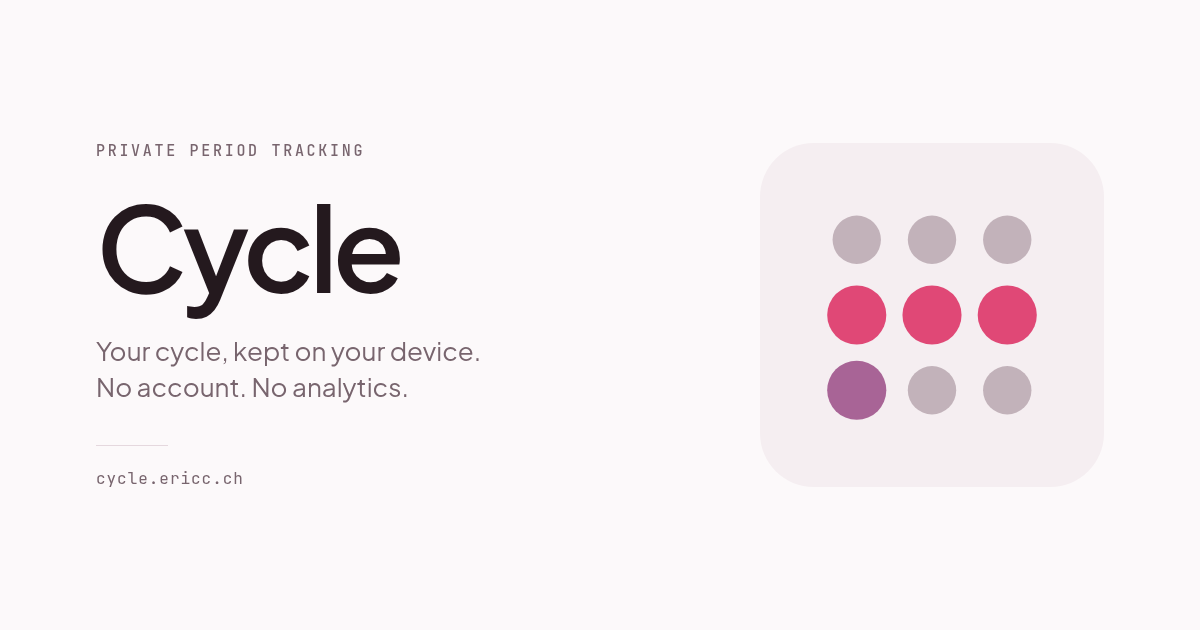
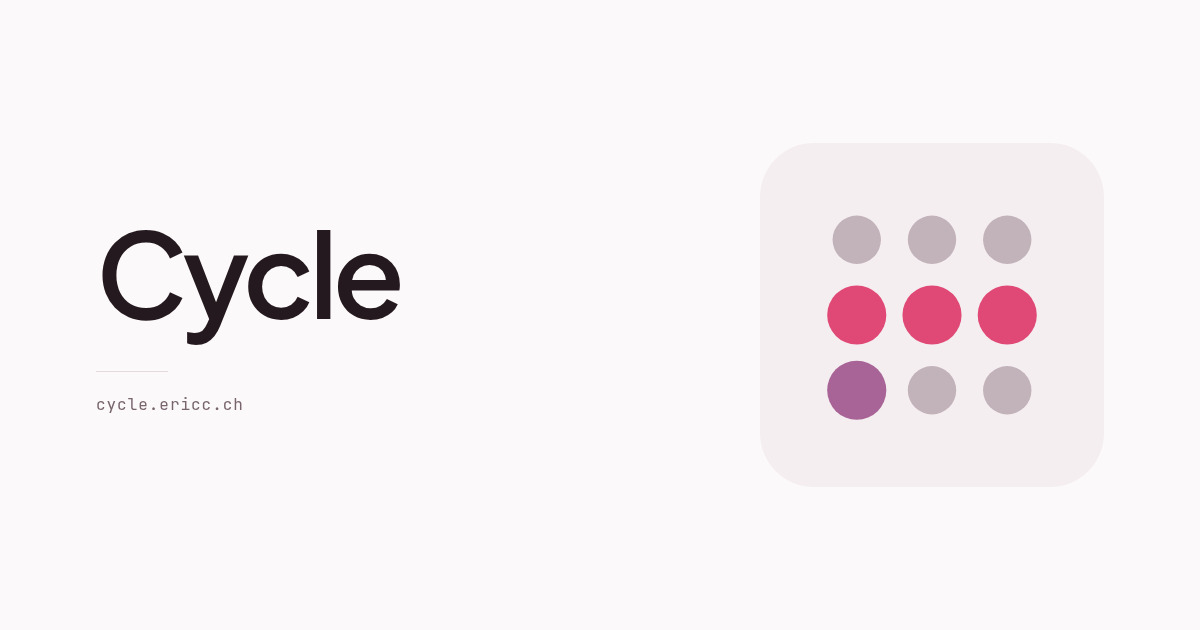
Strip the copy from the share card
The card is the wordmark and the mark, nothing else. The description
meta and the manifest description go with it, so a link preview shows
only the name and the domain.

diff --git a/apps/web/index.html b/apps/web/index.html
@@ -17,28 +17,17 @@
       media="(prefers-color-scheme: dark)"
       content="#141213"
     />
-    <meta
-      name="description"
-      content="Private, local-first period tracker with optional end-to-end encrypted sync."
-    />
     <meta name="apple-mobile-web-app-capable" content="yes" />
     <meta name="apple-mobile-web-app-status-bar-style" content="default" />
     <meta name="apple-mobile-web-app-title" content="Cycle" />
     <meta property="og:title" content="Cycle" />
-    <meta
-      property="og:description"
-      content="Private, local-first period tracker with optional end-to-end encrypted sync."
-    />
     <meta property="og:type" content="website" />
     <meta property="og:url" content="https://cycle.ericc.ch/" />
     <meta property="og:site_name" content="Cycle" />
     <meta property="og:image" content="https://cycle.ericc.ch/og-image.png" />
     <meta property="og:image:width" content="1200" />
     <meta property="og:image:height" content="630" />
-    <meta
-      property="og:image:alt"
-      content="Cycle — private period tracking, with its nine-day grid mark"
-    />
+    <meta property="og:image:alt" content="Cycle, with its dot-grid mark" />
     <meta name="twitter:card" content="summary_large_image" />
     <meta name="twitter:image" content="https://cycle.ericc.ch/og-image.png" />
     <link rel="manifest" href="/manifest.webmanifest" />
